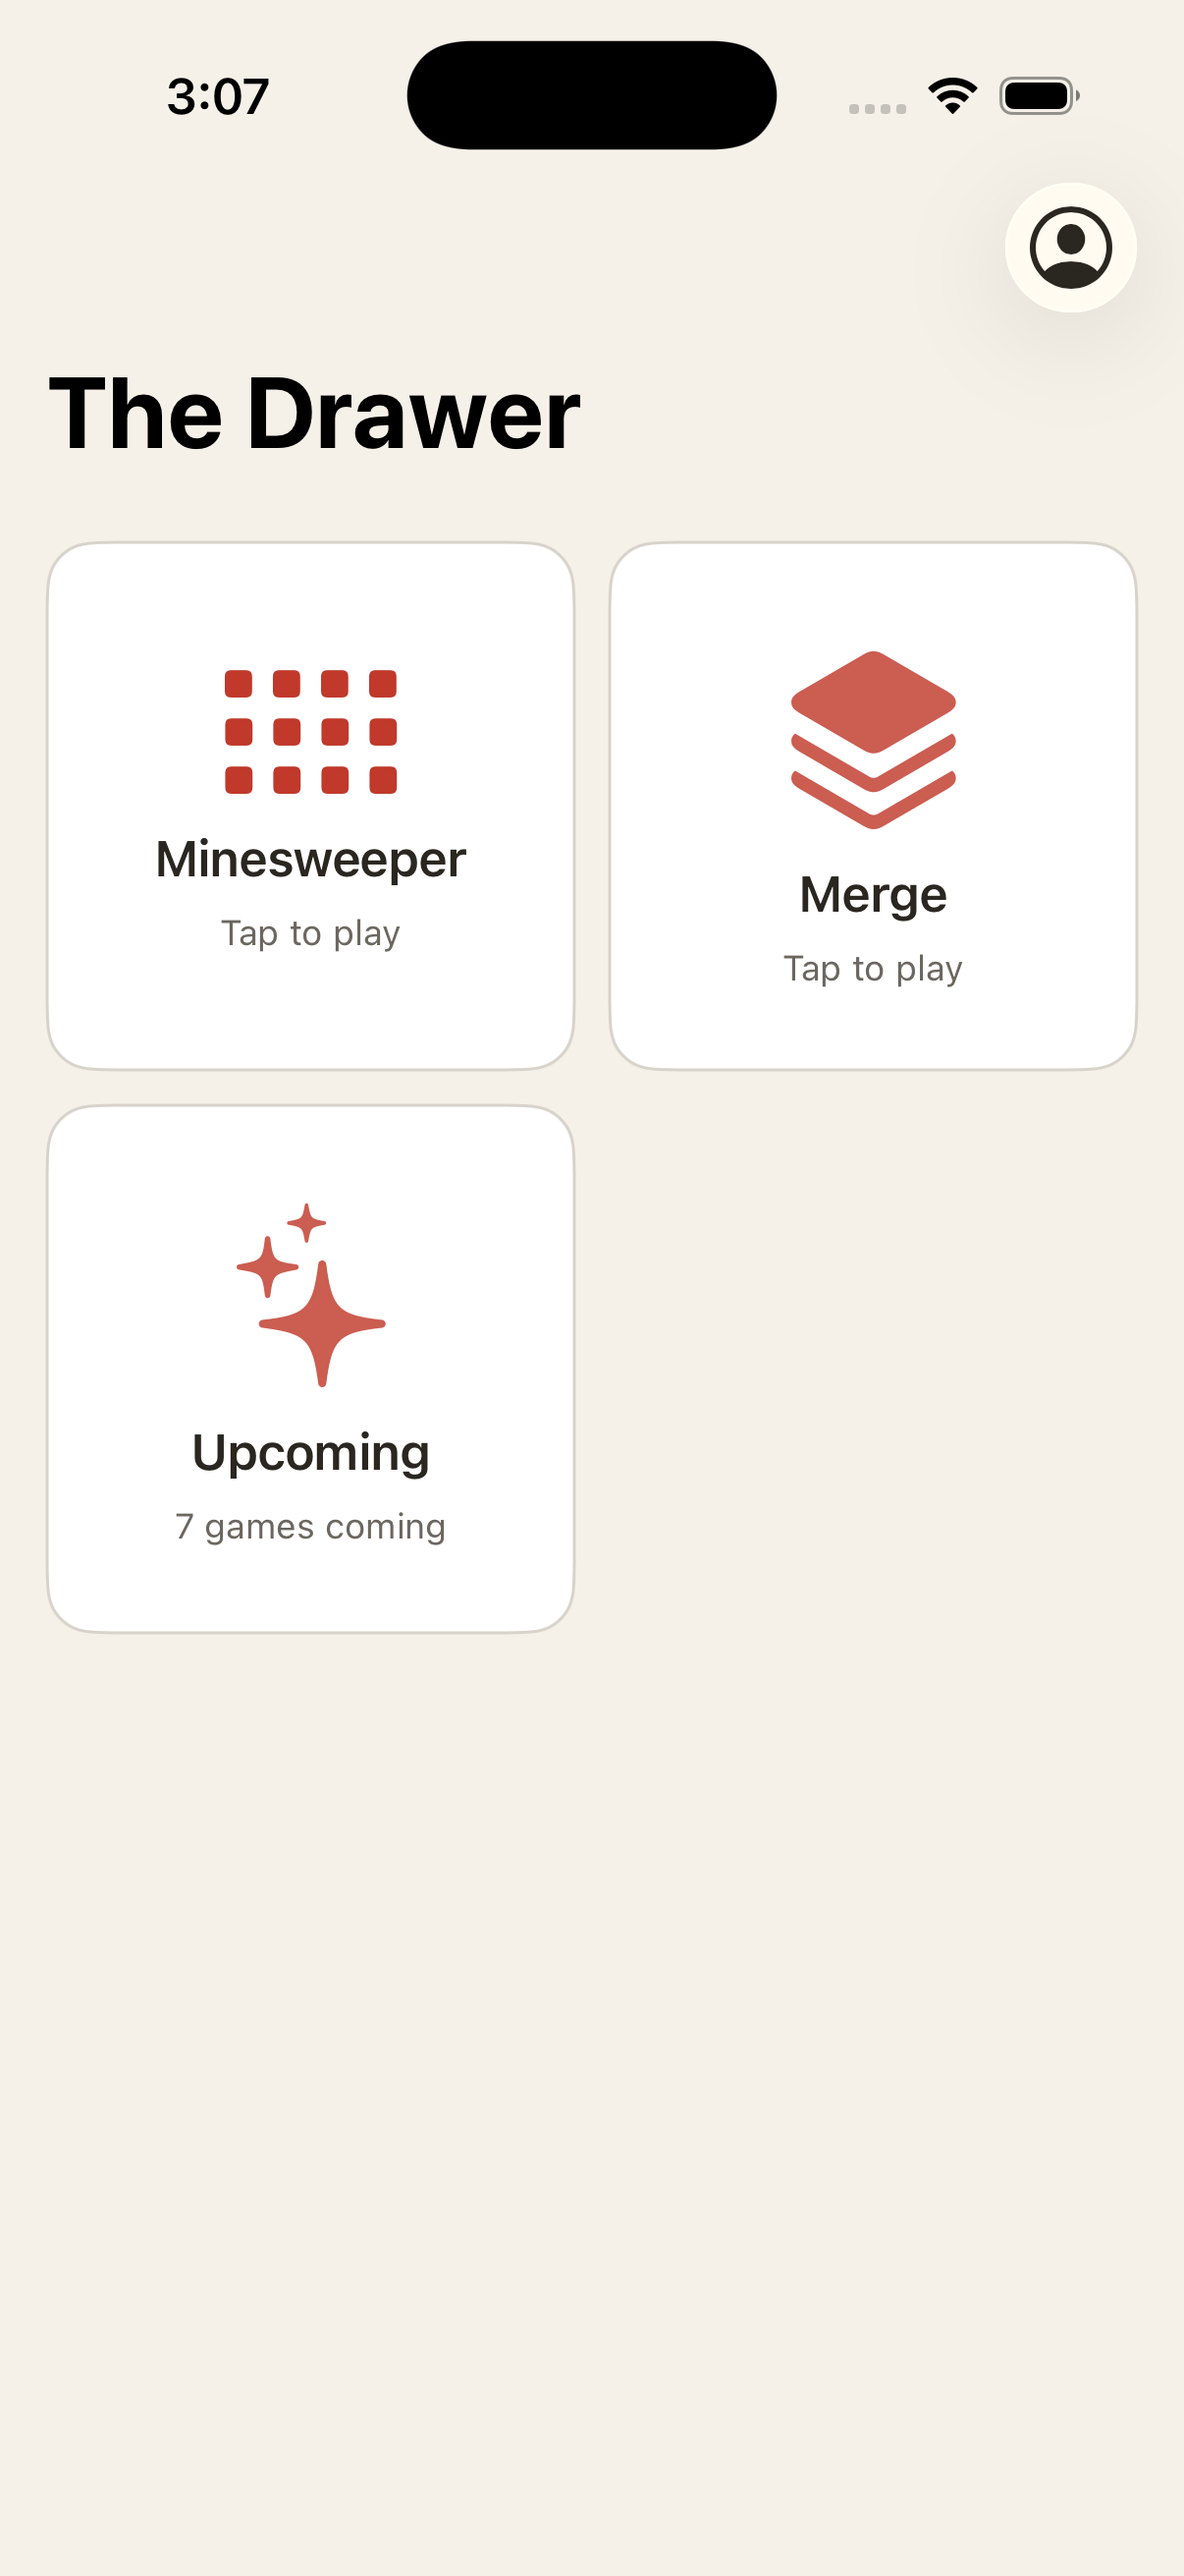
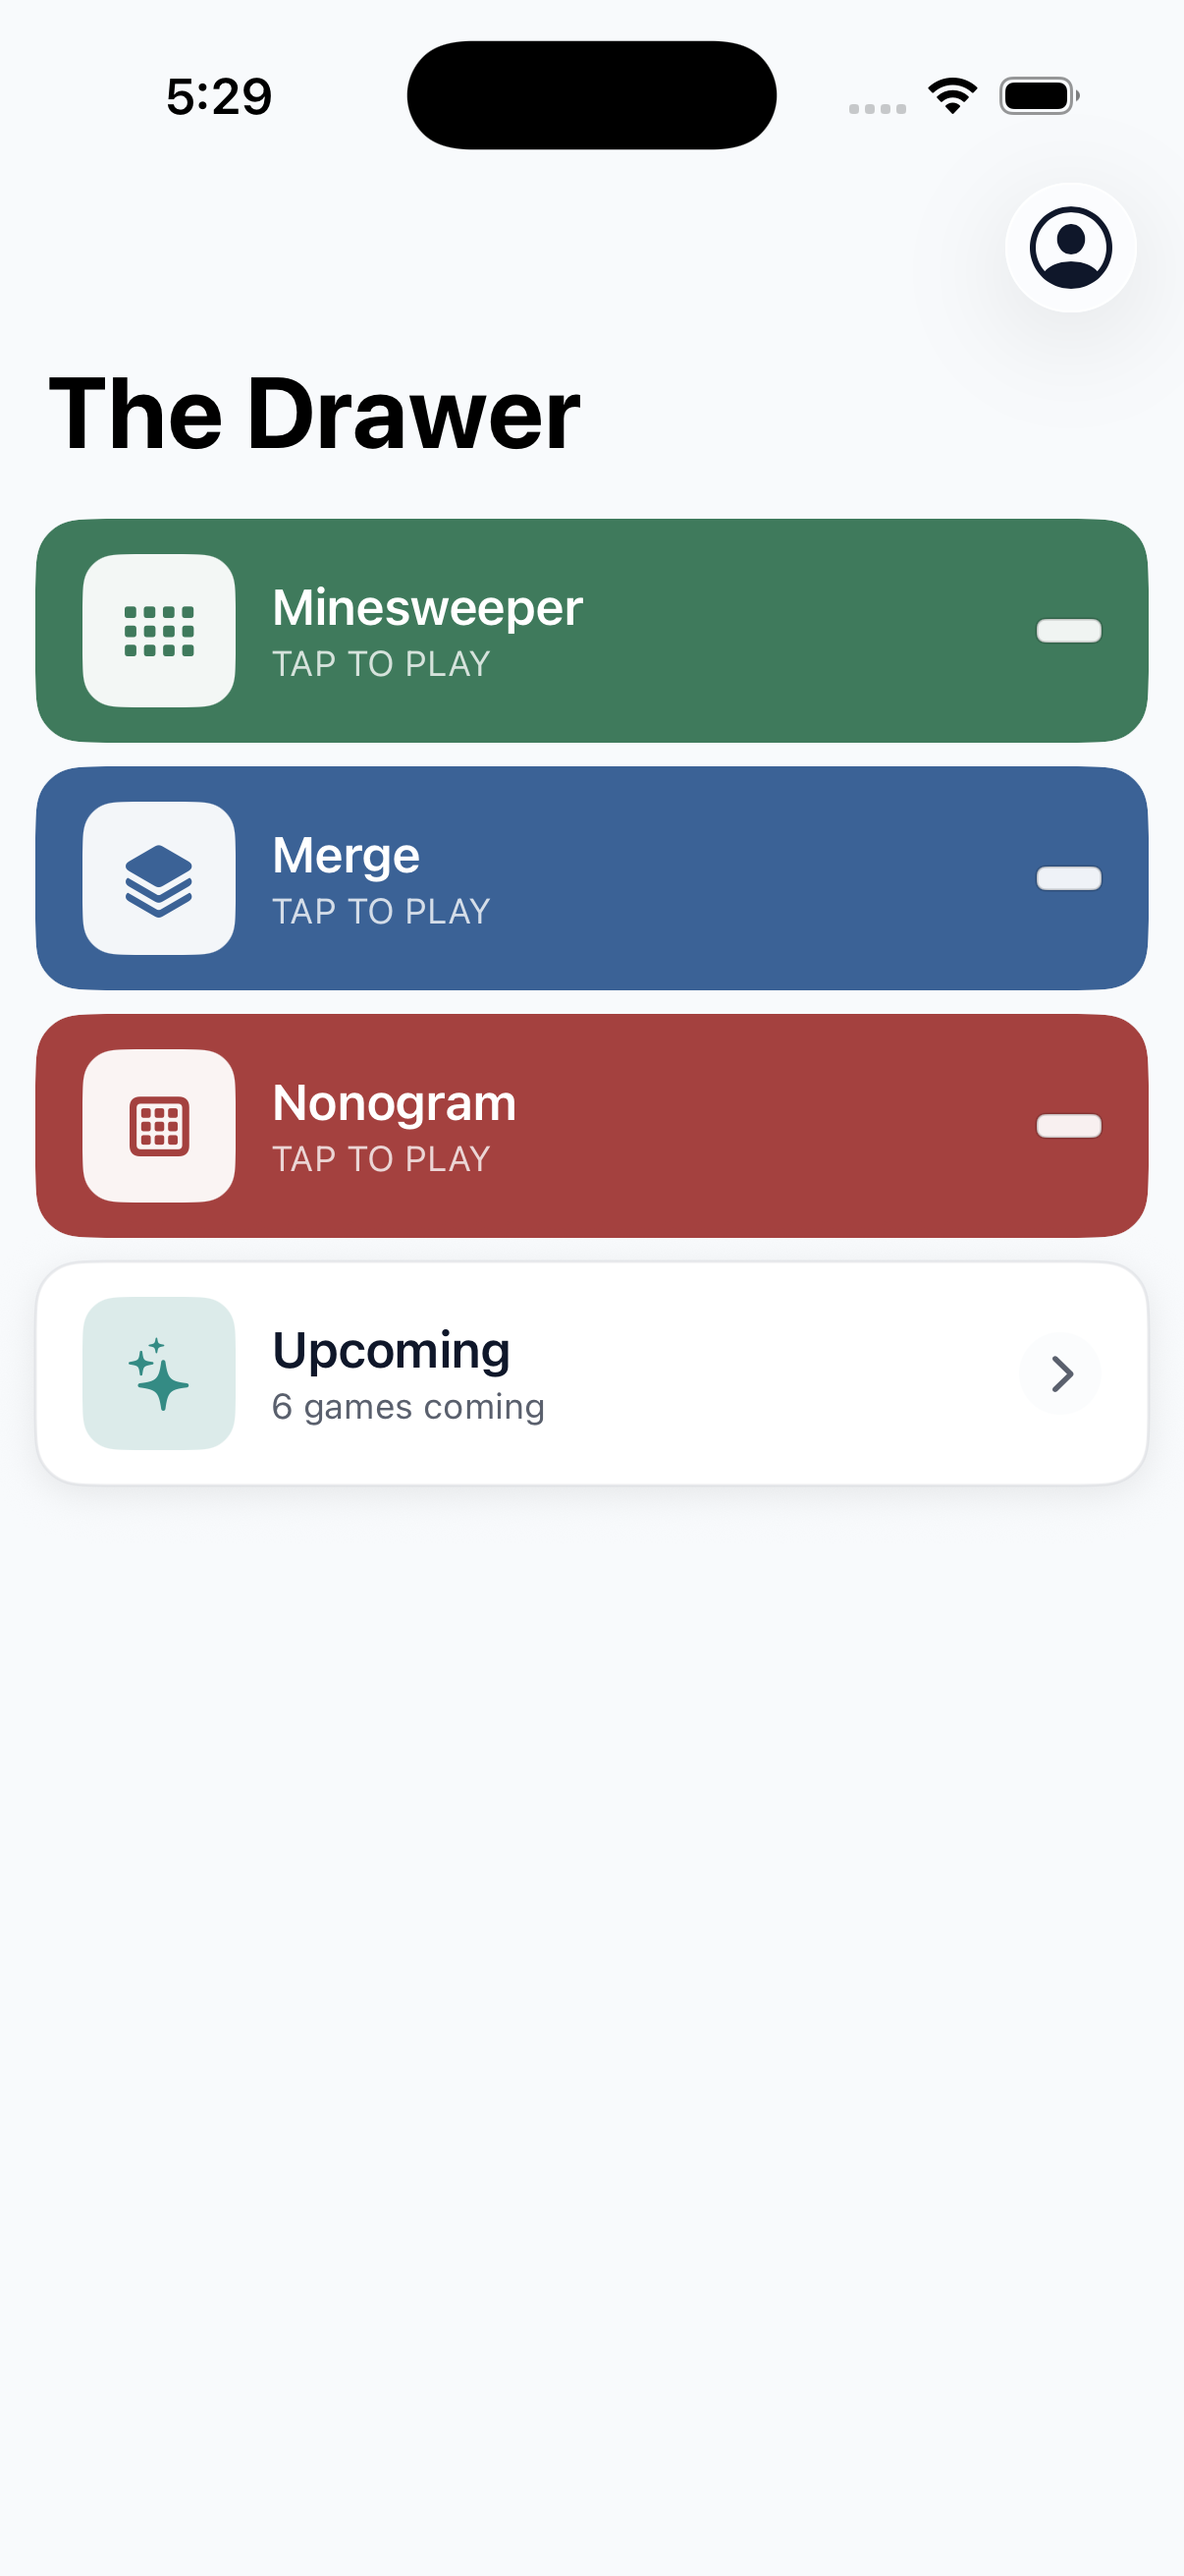
v1.1: Nonogram added + drawer cabinet home screen
- New home + Dracula screenshots reflect the redesigned drawer cabinet.
- New nonogram-classic.png slotted into the carousel.
- Hero copy + feature card updated to name all three games (Minesweeper,
  Merge, Nonogram) instead of "Minesweeper alone."
- Updates page gets a v1.1 entry covering Nonogram, the drawer redesign,
  the muted vs bright catalogue palettes, and the polish pass.
- config.js bumped to 1.1.

Changed region(s): [[0.0307, 0.1854, 0.9818, 0.6178], [0.859, 0.0618, 0.9511, 0.1236], [0.1534, 0.0309, 0.2454, 0.0618]]

diff --git a/index.html b/index.html
@@ -5,7 +5,7 @@
   <meta name="viewport" content="width=device-width, initial-scale=1" />
 
   <title>GameDrawer - Classic logic games. No ads. No noise. Just play.</title>
-  <meta name="description" content="A local-first iOS drawer of classic logic games. Minesweeper now, more on the way. No ads, no accounts, no tracking - fully theme-customizable." />
+  <meta name="description" content="A local-first iOS drawer of classic logic games - Minesweeper, Merge, and Nonogram. No ads, no accounts, no tracking. Every game adapts to the theme you pick." />
 
   <link rel="canonical" href="https://gamedrawer.lauterstar.com/" />
   <meta name="robots" content="index,follow,max-image-preview:large" />
@@ -16,7 +16,7 @@
   <meta property="og:type" content="website" />
   <meta property="og:locale" content="en_US" />
   <meta property="og:title" content="GameDrawer - Classic logic games. No ads. No noise. Just play." />
-  <meta property="og:description" content="A local-first iOS drawer of classic logic games. Minesweeper now, more on the way." />
+  <meta property="og:description" content="A local-first iOS drawer of classic logic games - Minesweeper, Merge, and Nonogram. No ads, no accounts, no tracking." />
   <meta property="og:url" content="https://gamedrawer.lauterstar.com/" />
   <meta property="og:image" content="https://gamedrawer.lauterstar.com/assets/images/icon-1024.png" />
   <meta property="og:image:alt" content="GameDrawer app icon" />
@@ -98,7 +98,7 @@
             </h1>
 
             <p class="sub">
-              GameDrawer is a calm drawer of classic logic games for iPhone. Local-first, no accounts, no tracking, no fake currency - every game adapts to the theme you pick.
+              GameDrawer is a calm drawer of classic logic games for iPhone - Minesweeper, Merge, and Nonogram. Local-first, no accounts, no tracking, no fake currency. Every game adapts to the theme you pick.
             </p>
 
             <div class="cta-row">
@@ -117,7 +117,7 @@
 
           <div class="hero-phone">
             <div class="phone-frame">
-              <img src="assets/images/screenshots/home-classic.png" alt="GameDrawer home screen - The Drawer with Minesweeper, Merge, and Upcoming game cards on the Classic theme" />
+              <img src="assets/images/screenshots/home-classic.png" alt="GameDrawer home screen - The Drawer with Minesweeper, Merge, Nonogram, and Upcoming drawer rows on the Forest theme" />
             </div>
           </div>
         </div>
@@ -126,15 +126,15 @@
           <h2 id="features-heading" class="visually-hidden">App Features</h2>
 
           <article class="feature">
-            <p class="feature-num">01 / Minesweeper</p>
+            <p class="feature-num">01 / Three games</p>
             <span class="feature-icon" aria-hidden="true">
               <svg viewBox="0 0 24 24" fill="none" stroke="currentColor" stroke-width="1.75" stroke-linecap="round" stroke-linejoin="round">
                 <rect x="3" y="3" width="18" height="18" rx="2" />
                 <path d="M9 9h.01M15 9h.01M9 15h.01M15 15h.01" />
               </svg>
             </span>
-            <h3>Minesweeper, properly tuned.</h3>
-            <p>Three difficulties: Easy 9&times;9 (10 mines), Medium 16&times;16 (40), Hard 16&times;30 (99). First-tap safety is guaranteed. Flood-fill auto-reveal for empty cells.</p>
+            <h3>Minesweeper, Merge, Nonogram.</h3>
+            <p>Minesweeper across three difficulties, Merge with classic 2048 and Infinite modes, Nonogram from 5&times;5 up to 20&times;20. Each one tuned, none of them loud.</p>
           </article>
 
           <article class="feature">
@@ -219,7 +219,8 @@
           </svg>
         </button>
         <div class="carousel-track">
-          <img src="assets/images/screenshots/home-classic.png" alt="The Drawer - Minesweeper, Merge, and Upcoming game cards on the Classic theme" loading="lazy" />
+          <img src="assets/images/screenshots/home-classic.png" alt="The Drawer - Minesweeper, Merge, Nonogram, and Upcoming drawer rows on the Forest theme" loading="lazy" />
+          <img src="assets/images/screenshots/nonogram-classic.png" alt="Nonogram board mid-play at 20 by 20 with row and column hints, Classic theme" loading="lazy" />
           <img src="assets/images/screenshots/minesweeper-hard-classic.png" alt="Minesweeper Hard mid-play with flagged mines and revealed numbers, Classic theme" loading="lazy" />
           <img src="assets/images/screenshots/minesweeper-loss-classic.png" alt="Minesweeper Hard loss screen - Bad luck modal with Restart and Change difficulty, Classic theme" loading="lazy" />
           <img src="assets/images/screenshots/merge-classic.png" alt="Merge mid-play with score 312, win mode, board with 2 / 4 / 64 tiles on Classic theme" loading="lazy" />
@@ -227,7 +228,7 @@
           <img src="assets/images/screenshots/theme-picker.jpg" alt="More themes picker showing Classic, Sweet, Bright, and Soft preset families" loading="lazy" />
           <img src="assets/images/screenshots/minesweeper-hard-dracula.png" alt="Minesweeper Hard mid-play on the Dracula theme - proves themes apply across the whole game" loading="lazy" />
           <img src="assets/images/screenshots/minesweeper-win-dracula.png" alt="Minesweeper Easy You won! screen on the Dracula theme" loading="lazy" />
-          <img src="assets/images/screenshots/home-dracula.png" alt="The Drawer on the Dracula theme - same layout, fully recolored" loading="lazy" />
+          <img src="assets/images/screenshots/home-dracula.png" alt="The Drawer on the Dracula theme - hinged drawer rows in the bright catalogue palette" loading="lazy" />
         </div>
       </div>
     </main>

diff --git a/updates.html b/updates.html
@@ -70,6 +70,14 @@
 
       <ul class="updates-list">
         <li>
+          <span class="ver">v1.1 &middot; May 11, 2026</span>
+          <strong>Nonogram joins the cabinet. New drawer-style home screen. Per-game color palettes.</strong>
+          <p><strong>Nonogram.</strong> A new picross-style logic puzzle. Fill the squares that match the row and column hints. Four sizes from 5&times;5 up to 20&times;20. Marks let you note squares you know are empty so you don't lose track. Each puzzle you solve gets saved as a thumbnail in a "Solved" gallery linked from the stats card, with the best clear time for each one.</p>
+          <p><strong>The Drawer.</strong> The home screen is now a vertical stack of drawers - one per game - in their own brand color. Tap a drawer and the face flips down to reveal mode chips: Easy / Medium / Hard for Minesweeper, 2048 / Infinite for Merge, the four sizes for Nonogram. Tap a chip and you drop straight into that mode. Tap anywhere outside the open drawer to close it.</p>
+          <p><strong>Theme-aware palettes.</strong> Each preset now picks one of two catalogue palettes based on its mood. Forest, Navy, Maroon, and the other sophisticated presets use a muted set (sage, dust navy, sienna, bronze). Dracula, Voltage, Bubblegum, and the other playful presets use a saturated set (vivid blue, spring green, hot red, sun amber). Each game pins to a stable slot so the cabinet reads as distinct blocks under any theme.</p>
+          <p><strong>Polish.</strong> Cleaner Merge mode labels in the toolbar ("2048 &middot; Classic" and "Infinite &middot; Endless" replace the wordier originals). Nonogram swipe detection got a deadzone restored so a glancing finger no longer marks adjacent rows. Nonogram board now has a sharp dark border with breathing room around the hint numbers, and the layout stays the same physical size from 5&times;5 to 20&times;20.</p>
+        </li>
+        <li>
           <span class="ver">v1.0.1 &middot; May 8, 2026</span>
           <strong>Polish pass: Minesweeper end-game choreography, Merge auto-spawn, per-app Classic theme.</strong>
           <p><strong>Minesweeper end-of-game animations.</strong> Lose, and the remaining mines now reveal as a wave radiating outward from the cell you tapped. Wrong flags pop afterward, then the end card slides in. Win, and confetti fires for a beat before the end card lands. A new "Animations" toggle lives in Settings under FEEL (the section that used to be called HAPTICS, since it now covers both subtle-feedback knobs). Default on. The system Reduce Motion setting still wins.</p>

diff --git a/assets/config.js b/assets/config.js
@@ -4,7 +4,7 @@
 window.SITE_CONFIG = Object.freeze({
   appName: "GameDrawer",
   displayName: "GameDrawer",
-  appVersion: "1.0.1",
+  appVersion: "1.1",
   appStoreUrl: "#",
   supportEmail: "support@lauterstar.com",
   copyrightHolder: "Lauterstar",
